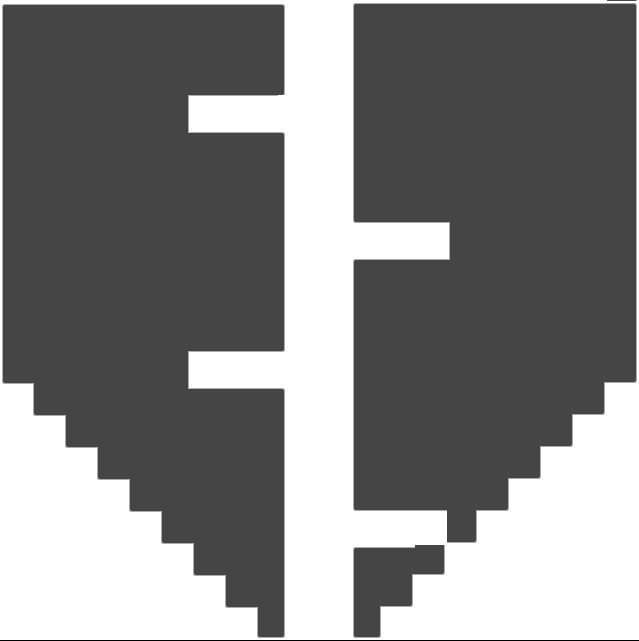
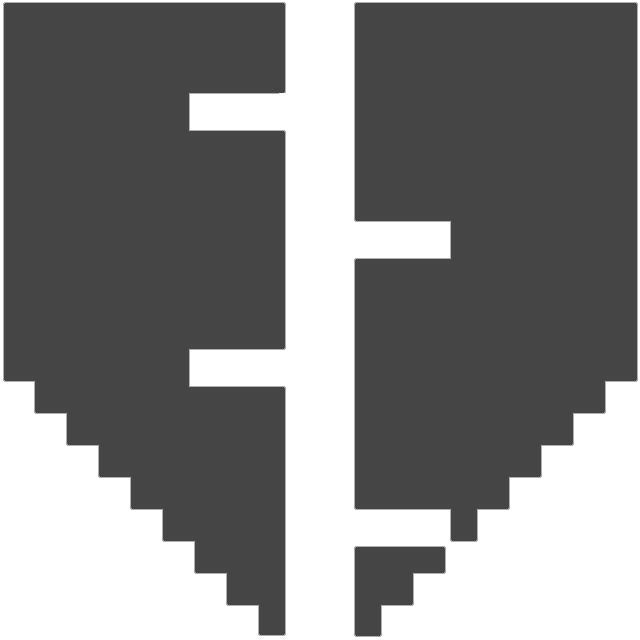
level 3 done - no walls

diff --git a/src/scenes/levels/level4.js b/src/scenes/levels/level4.js
@@ -1,6 +1,6 @@
-class Level3 extends Phaser.Scene {
+class Level4 extends Phaser.Scene {
     constructor() {
-        super("level3Scene");
+        super("level4Scene");
     }
 
 
@@ -52,8 +52,8 @@ class Level3 extends Phaser.Scene {
             fixedWidth: 0
         }
 
-        this.player1 = new Player(this, 32, game.config.height-64,'p1', 0, true).setOrigin(0).setSize(30,30);
-        this.player2 = new Player(this, 32, game.config.height-64,'p2', 0, false).setOrigin(0).setSize(25,25);
+        this.player1 = new Player(this, 576, 32,'p1', 0, true).setOrigin(0).setSize(25,25);
+        this.player2 = new Player(this, 576, 32,'p2', 0, false).setOrigin(0).setSize(25,25);
         //this.player1.body.immovable = true;
         
 
@@ -61,12 +61,17 @@ class Level3 extends Phaser.Scene {
         this.players = this.add.group();
         this.players.add(this.player1);
         this.players.add(this.player2);
+
         this.boxO = this.add.group();
         this.boxB = this.add.group();
         this.boxC = this.add.group();
-        this.spikes = this.add.group();
+        
         this.switchesB = this.add.group();
         this.switchesO = this.add.group();
+
+        this.spikesO = this.add.group();
+        this.spikesB = this.add.group();
+
         this.player2.alpha=(0);
         this.player1.alpha=(1);
         this.physics.add.collider(this.players,this.boxC);
@@ -291,63 +296,67 @@ class Level3 extends Phaser.Scene {
         });
         this.physics.add.collider(this.player1,this.boxB    );
         this.physics.add.collider(this.player2,this.boxO    );
-        this.spikeCollide = this.physics.add.collider(this.players,this.spikes,()=>{
+        this.spikeCollideB = this.physics.add.collider(this.player2,this.spikesB,()=>{
             this.scene.start(this);
         });
 
-        this.spikeCollide.overlapOnly = true;
+        this.spikeCollideB.overlapOnly = true;
+        this.spikeCollideO = this.physics.add.collider(this.player1,this.spikesO,()=>{
+            this.scene.start(this);
+        });
+
+        this.spikeCollideO.overlapOnly = true;
 
    
         
 
         let skip = [
             
-            [ false, false, false, false, false, false, false, false, false, false, false, false, false, false, false, true, true, true, true, true],
-            [ false, false, false, "spike", false, "spike", false, "spike", false, "spike", false, true, false, false, false, true, true, true, true, true],
-            [ false, false, true, true, true, true, true, true, true, true, true, true, true, false, false, true, true, true, true, true],
-            [ false, "spike", true, true, true, true, true, true, true, true, true, true, true, true, true, true, true, true, true, true],
-            [ false, false, true, true, true, true, true, true, true, true, true, true, true, false, false, true, "blue", true, true, true],
-            [ false, "spike", true, true, true, true, true, true, true, true, true, true, true, false, false, true, true, true, true, true],
-            [ false, false, true, true, true, true, true, true, true, true, true, true, true, false, false,"spike", "spike", "spike", "spike", "spike"],
-            [ false, false, false, true, true, true, false, "spike", false, "spike", false, "spike", false, false, false, false, false, false, false, false],
-            [ false, false, false, false, true, false, false, false, false, false, false, false, false, false, false, false, false, false, false, false],
-            [ false, false, false, false, true, false, false, false, false, false, false, false, false, false, false, false, false, false, false, false],
-            [ true, true, true, true, true, true, false, false, true, true, true, true, true, true, true, true, false, false, false, false],
-            [ true, true, true, true, true, true, false, false, true, true, true, true, true, true, true, true, false, false, false, false],
-            [ "spike", "spike", true, true, true, false, false, true, true, true, true, true, true, true, true, true, true, true, true, false],
-            [ "spike", "spike", true, "spike", "spike", false, false, true, true, true, true, true, true, true, true, true, false, false, false, false],
-            [ true, true, true, "spike", true, true, true, true, true, true, true, true, true, true, true, true, false, false, false, false],
-            [ true, true, true, "spike", true, true, false, false, true, true, true, true, true, true, true, true, true, true, true, false],
-            [ true, true, true, true, true, true, false, false, true, true, true, true, true, true, true, true, false, false, false, false],
-            [ true, true, true, true, true, true, false, false, true, true, true, true, true, true, true, true, false, false, false, false],
-            [ "spike", true, true, true, true, "spike", false, false, true, true, true, "switch", true, true, true, true, false, false, false, false],
-            [ "spike", "spike", "spike", "spike", "spike", "spike", false, false, true, true, true, true, true, true, true, true, false, false, false, false],
-            [ true, true, true, true, true, true, true, true, true, true, true, true, true, true, true, true, true, true, true, true],
+            [ false, false, false, false, false, false, false, true, true, true, true, true, true, true, true, "spike", true, true, true, "spike"],
+            [ false, false, "switch", false, false, false, false, "spike", "spike", "spike", true, true, true, true, true, "spike", true, true, true, "spike"],
+            [ true, true, true, true, true, false, false, true, true, "spike", true, "spike", true, true, true, "spike", true, "spike", true, "spike"],
+            [ true, true, true, "spike", "spike", false, false, true, "spike", "spike", true, "spike", true, "spike", true, "spike", true, "spike", true, true],
+            [ true, true, true, true, true, false, false, true, true, true, true, "spike", true, "spike", true, "spike", true, "spike", true, true],
+            [ "spike", "spike", true, true, true, false, false, false, false, false, false, false, false, false, false, false, true, true, false, false],
+            [ true, true, true, true, true, false, false, false, false, false, false, false, false, false, false, false, true, "spike", false, false],
+            [ true, true, true, true, true, false, false, true, "spike", true, "spike", "switch", "spike", true, false, false, true, true, false, false],
+            [ true, true, true, true, true, false, false, true, "spike", true, "spike", "blue", "spike", true, false, false, "spike", true, false, false],
+            [ true, true, "blue", true, true, false, false, true, "spike", true, "spike", true, "spike", true, false, false, true, true, false, false],
+            [ true, true, true, true, true, false, false, true, "spike", true, "spike", true, "spike", true, false, false, true, false, false, false],
+            [ true, true, true, true, true, true, true, true, "spike", true, "spike", true, "spike", true, true, true, true, true, true, true],
+            [ false, true, false, false, false, false, false, true, "spike", true, "spike", true, "spike", true, false, false, false, false, false, false],
+            [ false, true, false, false, false, false, false, true, "spike", true, "spike", true, "spike", true, false, false, false, false, false, false],
+            [ true, true, true, false, false, false, false, true, "spike", "blue", "spike", true, "spike", true, false, false, false, false, false, false],
+            [ true, "spike", true, false, false, false, false, true, "spike", "switch", "spike", true, "spike", true, false, false, false, false, false, false],
+            [ true, true, "spike", false, false, false, false, false, false, false, false, false, false, false, false, false, false, false, false, false],
+            [ true, true, true, false, false, false, false, false, false, false, false, false, false, false, false, false, false, false, false, false],
+            [ true, true, true, false, false, false, false, false, false, false, false, false, false, false, false, false, false, false, false, false],
+            [ true, true, true, false, false, false, false, false, false, false, false, false, false, false, false, false, false, false, false, false],
+            
         ];
 
 
         let skip2 = [
-            [ true, true, true, true, true, true, true, true, true, true, true, true, true, true, true, true, true, true, true, true],
-            [ true, true, true, true, true, true, true, true, true, true, true, true, true, true, true, true, true, true, true, true],
-            [ true, true, true, true, true, true, true, true, true, true, true, "switch", true, true, true, true, true, true, true, true],
-            [ true, true, true, true, true, true, true, true, true, true, true, true, true, true, true, "orange", true, true, true, true],
-            [ true, true, true, true, true, true, true, true, true, true, true, true, true, true, true, true, true, true, true, true],
-            [ true, true, true, true, true, true, true, true, true, true, true, true, true, true, true, true, true, true, true, true],
-            [ true, true, true, true, true, true, true, true, true, true, true, true, true, true, true, true, true, true, true, true],
-            [ true, true, true, true, true, true, true, true, true, true, true, true, true, true, true, true, true, true, true, true],
-            [ true, true, true, true, true, true, true, true, true, true, true, true, true, true, true, true, true, true, true, true],
-            [ true, true, true, true, "orange", true, true, true, true, true, true, true, true, true, true, true, true, true, true, true],
-            [ true, true, true, true, true, true, true, true, true, true, true, true, true, true, true, true, true, true, true, true],
-            [ true, true, true, true, true, true, true, true, true, true, true, "switch", true, true, true, true, true, true, true, true],
-            [ true, true, true, true, "switch", true, true, true, true, true, true, "orange", true, true, true, true, "orange", true, "switch", true],
-            [ true, true, true, true, true, true, true, true, true, true, true, true, true, true, true, true, true, true, true, true],
-            [ true, true, true, true, true, true, true, true, true, true, true, true, true, true, true, true, true, true, true, true],
-            [ true, true, true, true, true, true, true, true, true, true, true, true, true, true, true, true, "orange", true, "switch", true],
-            [ true, true, true, true, true, true, true, true, true, true, true, true, true, true, true, true, true, true, true, true],
-            [ true, true, true, true, true, true, true, true, true, true, true, true, true, true, true, true, true, true, true, true],
-            [ true, true, true, true, true, true, true, true, true, true, true, true, true, true, true, true, true, true, true, true],
-            [ true, true, true, true, true, true, true, true, true, true, true, true, true, true, true, true, true, true, true, true],
-            [ true, true, true, true, true, true, true, true, true, true, true, true, true, true, true, true, true, true, true, true]
+            [ false, false, false, false, false, false, false, true, "spike", true, "spike", true, true, "spike", true, true, true, true, true, true],
+    [ false, false, true, false, false, false, false, true, true, true, true, true, true, "spike", "spike", "spike", "spike", "spike", "spike", "spike"],
+    [ "spike", "spike", "spike", "spike", "spike", false, false, true, "orange", "switch", "spike", "spike", "spike", "spike", true, "spike", true, true, true, true],
+    [ true, true, "orange", true, true, false, false, true, "spike", true, true, true, true, true, true, "spike", true, true, "spike", "spike"],
+    [ "spike", true, true, "spike", "spike", false, false, true, true, true, true, true, true, true, "spike", "spike", true, true, "spike", "spike"],
+    [ true, true, "orange", true, true, false, false, false, false, false, false, false, false, false, false, false, true, true, false, false],
+    [ "spike", "spike", "spike", "spike", "spike", false, false, false, false, false, false, false, false, false, false, false, true, true, false, false],
+    [ true, true, "orange", true, true, false, false, true, true, true, true, true, true, true, false, false, true, true, false, false],
+    [ "spike", "spike", "spike", "spike", "spike", false, false, "spike", "spike", "spike", "spike", "spike", "spike", "spike", false, false, true, true, false, false],
+    [ true, true, true, true, true, false, false, true, true, true, true, true, "orange", "switch", false, false, true, true, false, false],
+    [ true, true, true, true, true, false, false, "spike", "spike", "spike", "spike", "spike", "spike", "spike", false, false, true, false, false, false],
+    [ true, true, true, true, true, true, true, true, true, true, true, true, true, true, true, true, true, true, true, true],
+    [ false, true, false, false, false, false, false, "spike", "spike", "spike", "spike", "spike", "spike", "spike", false, false, false, false, false, false],
+    [ false, true, false, false, false, false, false, "switch", "orange", true, true, true, true, true, false, false, false, false, false, false],
+    [ "spike", true, true, false, false, false, false, "spike", "spike", "spike", "spike", "spike", "spike", "spike", false, false, false, false, false, false],
+    [ true, true, true, false, false, false, false, true, true, true, true, true, true, true, false, false, false, false, false, false],
+    [ true, true, true, false, false, false, false, false, false, false, false, false, false, false, false, false, false, false, false, false],
+    [ "spike", true, "spike", false, false, false, false, false, false, false, false, false, false, false, false, false, false, false, false, false],
+    [ "spike", true, "spike", false, false, false, false, false, false, false, false, false, false, false, false, false, false, false, false, false],
+    [ "spike", "spike", "spike", false, false, false, false, false, false, false, false, false, false, false, false, false, false, false, false, false],
         ];
 
         this.press = [
@@ -377,15 +386,17 @@ class Level3 extends Phaser.Scene {
        this.boxesB = [];
        this.boxesO = [];
        this.boxesC = [];
-       this.switchArrB = []
-       this.switchArrO = []
+       this.switchArrB = [];
+       this.switchArrO = [];
+       this.spikeArrB = [];
+       this.spikeArrO = [];
        
        
 
 
-        for(let i = 0;i<=20;i++){ //column
-            for(let j = 0;j<=20;j++){ // row
-
+        for(let i = 0;i<20;i++){ //column
+            for(let j = 0;j<20;j++){ // row
+                console.log(skip[i][j]);
                 if(!skip[i][j]){
                 let const_box = this.physics.add.sprite(i*32, j*32,'const').setOrigin(0).setSize(32,32);
                 const_box.body.immovable = true;
@@ -415,8 +426,9 @@ class Level3 extends Phaser.Scene {
             
                     });
                 }else if(skip[i][j]=="spike"){
-                    let spiky = this.physics.add.sprite(i*32, j*32,'spike').setOrigin(0).setSize(25,25);
-                    this.spikes.add(spiky)
+                    let spiky = this.physics.add.sprite(i*32, j*32,'spike').setOrigin(0).setSize(25,25).setAlpha(.15);
+                    this.spikesB.add(spiky)
+                    this.spikeArrB.push(spiky);
                 }
                 if(skip2[i][j]=="orange"){
                     this.boxesO.push( this.physics.add.sprite(i*32, j*32,'obox').setOrigin(0)); 
@@ -441,13 +453,17 @@ class Level3 extends Phaser.Scene {
             
                     });
                     this.collide.overlapOnly = true;
+                }else if(skip2[i][j]=="spike"){
+                    let spiky = this.physics.add.sprite(i*32, j*32,'spike').setOrigin(0).setSize(25,25);
+                    this.spikesO.add(spiky);
+                    this.spikeArrO.push(spiky);
                 }
                 
             }
 
             
         }
-        this.walls = this.add.tileSprite(0, 0, game.config.width, game.config.height, 'trans3').setOrigin(0);
+        //this.walls = this.add.tileSprite(0, 0, game.config.width, game.config.height, 'trans3').setOrigin(0);
 
         for(let i = -1;i<0;i++){ //column
             for(let j = 0;j<=20;j++){ // row
@@ -472,6 +488,14 @@ class Level3 extends Phaser.Scene {
                 this.boxC.add(const_box);
                 this.boxesC.push(const_box);
             }
+
+            for(let j = 0;j<=20;j++){ // row
+                let const_box = this.physics.add.sprite( j*32,640,'const').setOrigin(0).setSize(33,33);
+                const_box.body.immovable = true;
+                this.boxC.add(const_box);
+                this.boxesC.push(const_box);
+            }
+        
         
         
 
@@ -625,7 +649,7 @@ class Level3 extends Phaser.Scene {
            
          
 
-            if(!this.press[2][11]&&!this.press[12][4]&&!this.press[15][18]&&!this.press[18][11]&&!this.press[12][4]){
+            if(!this.press[1][2]&&!this.press[7][11]&&!this.press[9][13]&&!this.press[13][7]&&!this.press[15][9]&&!this.press[2][9]){
                 bgm.setLoop(false);
             bgm.stop();
                 this.add.rectangle(game.config.width/2, game.config.height/2,640,32,0x0).setDepth(1);
@@ -645,10 +669,11 @@ class Level3 extends Phaser.Scene {
            
          
         
-            if(Phaser.Input.Keyboard.JustDown(keyShift)&&!this.moving){
+            if(Phaser.Input.Keyboard.JustDown(keyShift)){
                 this.switch.play();
                 switch(this.screen){
                 case 1:
+                    this.player2.y = this.player1.y;
                     this.screen = 2;
                     this.player1.alpha=(0);
                     this.player2.alpha=1;
@@ -668,9 +693,16 @@ class Level3 extends Phaser.Scene {
                     for(let i = 0;i<this.switchArrO.length;i++){
                         this.switchArrO[i].alpha = 0;  
                     }
+                    for(let i = 0;i<this.spikeArrB.length;i++){
+                        this.spikeArrB[i].alpha = 1;  
+                    }
+                    for(let i = 0;i<this.spikeArrO.length;i++){
+                        this.spikeArrO[i].alpha = .15;  
+                    }
                    // this.switchArrB[this.switchArrB.length-2].alpha = 0;
                     break;
                 case 2:
+                    this.player1.x = this.player2.x;
                     this.screen = 1;
                     this.player2.alpha=(0);
                     this.player1.alpha=(1);
@@ -690,6 +722,12 @@ class Level3 extends Phaser.Scene {
                     for(let i = 0;i<this.switchArrO.length;i++){
                         this.switchArrO[i].alpha = 1;  
                     }
+                    for(let i = 0;i<this.spikeArrB.length;i++){
+                        this.spikeArrB[i].alpha = .15;  
+                    }
+                    for(let i = 0;i<this.spikeArrO.length;i++){
+                        this.spikeArrO[i].alpha = 1;  
+                    }
                     //this.switchArrB[this.switchArrB.length-2].alpha = 1;
                     
                     break;
@@ -697,33 +735,33 @@ class Level3 extends Phaser.Scene {
             }
         
 
-        if(keyDOWN.isDown&&this.screen == 1&&!this.moving){
+        if(keyDOWN.isDown&&this.screen == 1){
             this.player1.body.setVelocityY(this.MOVE_SPEED);
-            this.moving = true;
-        }else if(keyUP.isDown&&this.screen == 1&&!this.moving){
+            
+        }else if(keyUP.isDown&&this.screen == 1){
             this.player1.body.setVelocityY(-this.MOVE_SPEED);
-            this.moving = true;
+            
         }else{
-            //this.player1.body.setVelocityY(0);
+            this.player1.body.setVelocityY(0);
         }
 
-        if(keyLEFT.isDown&&this.screen == 1&&!this.moving){
-            this.player1.body.setVelocityX(-this.MOVE_SPEED);
-            this.moving = true;
-        }else if(keyRIGHT.isDown&&this.screen == 1&&!this.moving){
-            this.player1.body.setVelocityX(this.MOVE_SPEED);
-            this.moving = true;
-        }else{
-            //this.player1.body.setVelocityX(0);
-        }
+        // if(keyLEFT.isDown&&this.screen == 1){
+        //     this.player1.body.setVelocityX(-this.MOVE_SPEED);
+            
+        // }else if(keyRIGHT.isDown&&this.screen == 1){
+        //     this.player1.body.setVelocityX(this.MOVE_SPEED);
+            
+        // }else{
+        //     this.player1.body.setVelocityX(0);
+        // }
 
-        if(keyDOWN.isDown&&this.screen == 2){
-            this.player2.body.setVelocityY(this.MOVE_SPEED);
-        }else if(keyUP.isDown&&this.screen == 2){
-            this.player2.body.setVelocityY(-this.MOVE_SPEED);
-        }else{
-            this.player2.body.setVelocityY(0);
-        }
+        // if(keyDOWN.isDown&&this.screen == 2){
+        //     this.player2.body.setVelocityY(this.MOVE_SPEED);
+        // }else if(keyUP.isDown&&this.screen == 2){
+        //     this.player2.body.setVelocityY(-this.MOVE_SPEED);
+        // }else{
+        //     this.player2.body.setVelocityY(0);
+        // }
 
         if(keyLEFT.isDown&&this.screen == 2){
             this.player2.body.setVelocityX(-this.MOVE_SPEED);
@@ -734,13 +772,12 @@ class Level3 extends Phaser.Scene {
         }
 
 
-        if(this.player1.body.velocity.x==0&&this.player1.body.velocity.y==0){
-            this.moving = false;
-        }
+       
         // console.log("X vel: "+this.player1.body.velocity.x+" Y vel: "+this.player1.body.velocity.y);
         // console.log("I AM MOVING: "+this.moving);
         console.log(this.player1.x);
 
+        
         
    
 

diff --git a/src/scenes/levels/level2.js b/src/scenes/levels/level2.js
@@ -243,7 +243,7 @@ class Level2 extends Phaser.Scene {
             for(let j = 0;j<=20;j++){ // row
 
                 if(!skip[i][j]){
-                let const_box = this.physics.add.sprite(i*32, j*32,'const').setOrigin(0).setSize(32,32).setAlpha(0);
+                let const_box = this.physics.add.sprite(i*32, j*32,'const').setOrigin(0).setSize(32,32);
                 const_box.body.immovable = true;
                 this.boxC.add(const_box);
                 this.boxesC.push(const_box);
@@ -299,7 +299,7 @@ class Level2 extends Phaser.Scene {
             
         }
 
-        this.walls = this.add.tileSprite(4, 2, game.config.width, game.config.height, 'trans2').setOrigin(0);
+        this.walls = this.add.tileSprite(0, 0, game.config.width, game.config.height, 'trans2').setOrigin(0);
 
         for(let i = -1;i<0;i++){ //column
             for(let j = 0;j<=20;j++){ // row

diff --git a/src/scenes/menu.js b/src/scenes/menu.js
@@ -10,6 +10,7 @@ class Menu extends Phaser.Scene {
         this.load.image('bg3', './assets/art/bg3.png');
         this.load.image('trans1', './assets/art/trans1.png');
         this.load.image('trans2', './assets/art/trans2.png');
+        this.load.image('trans3', './assets/art/trans3.png');
         this.load.image('bbox', './assets/art/box_2.png');
         this.load.image('obox', './assets/art/box_1.png');
         this.load.image('gray', './assets/art/gray_box.png');

diff --git a/index.html b/index.html
@@ -23,6 +23,7 @@
     <script src = "./src/scenes/levels/level1.js"></script>
     <script src = "./src/scenes/levels/level2.js"></script>
     <script src = "./src/scenes/levels/level3.js"></script>
+    <script src = "./src/scenes/levels/level4.js"></script>
     <script src = "./src/main.js"></script>
 </body>
 </html>

diff --git a/src/main.js b/src/main.js
@@ -35,7 +35,7 @@ let config = {
             }
         }
     },
-    scene: [Menu,Move,Push,Switch,Level,Level1,Level2,Level3]
+    scene: [Menu,Move,Push,Switch,Level,Level1,Level2,Level3,Level4]
 };
 
 let game = new Phaser.Game(config);
